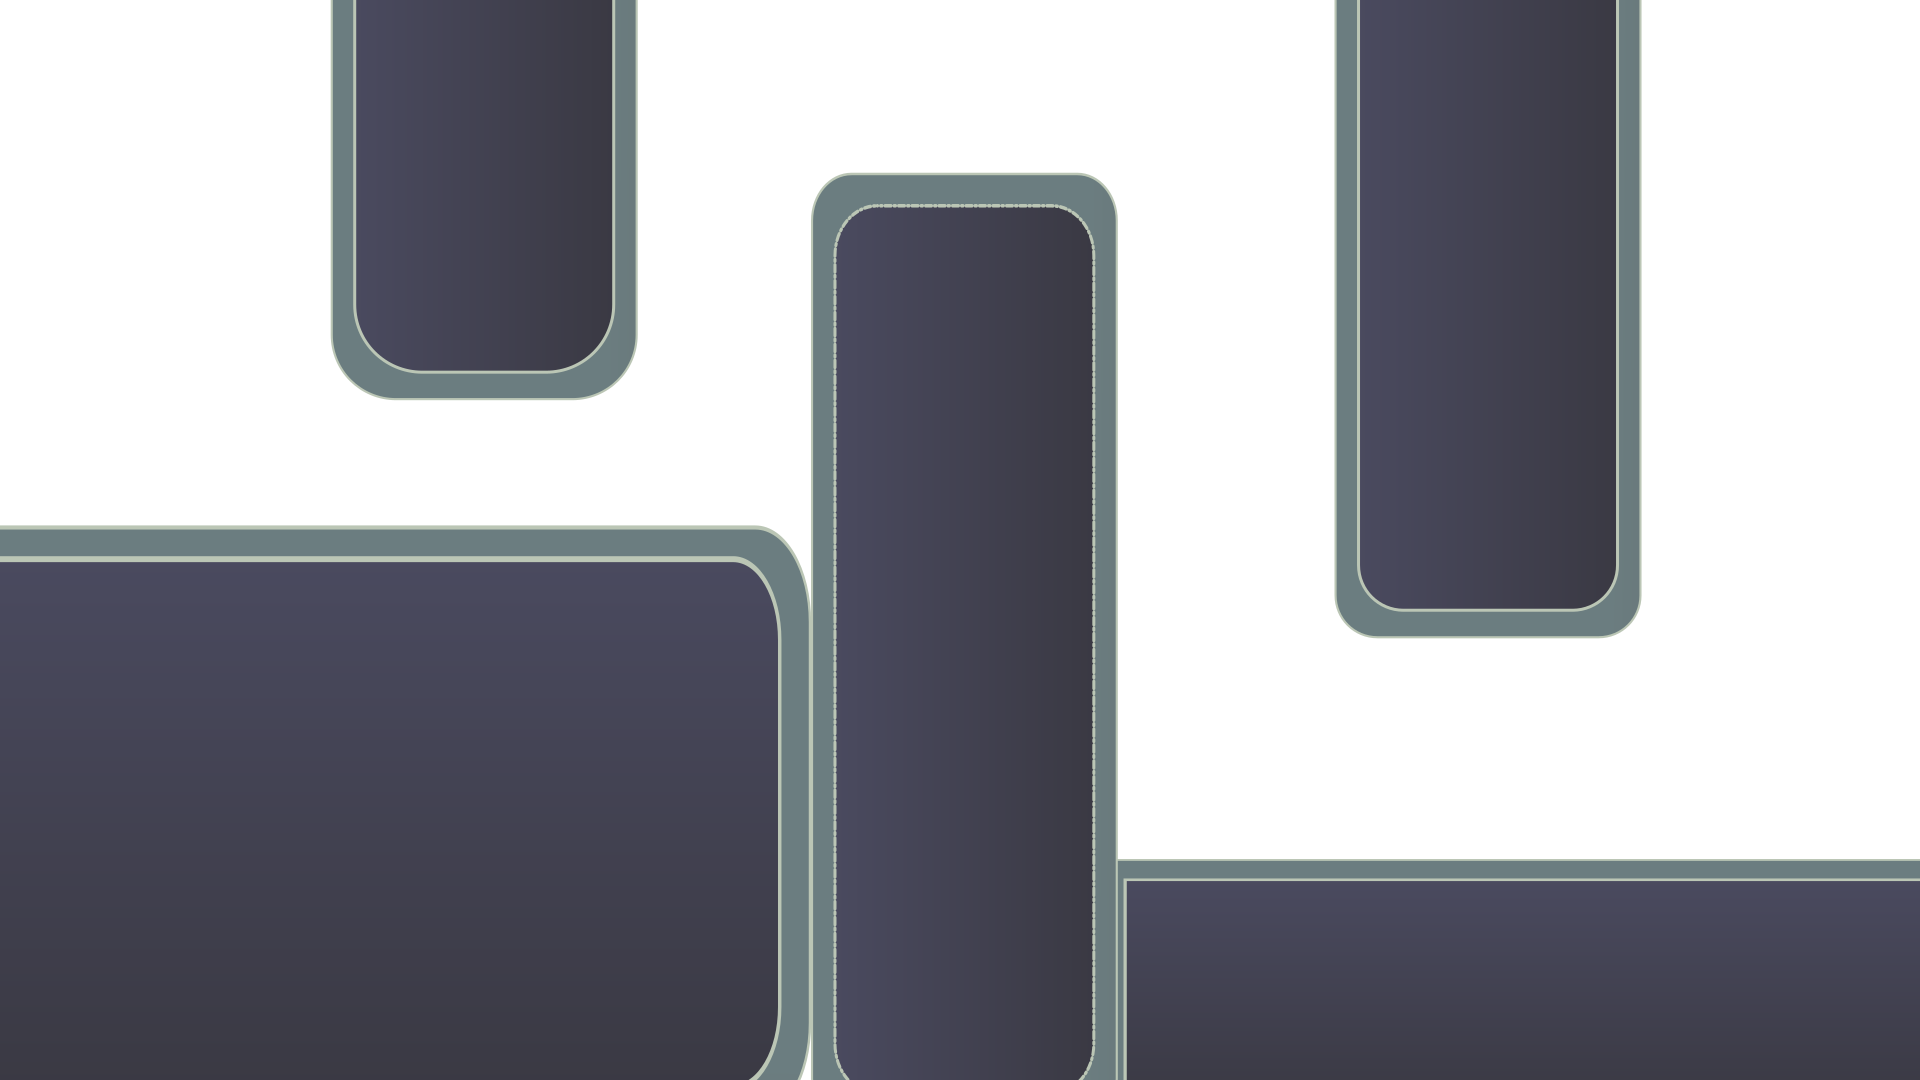
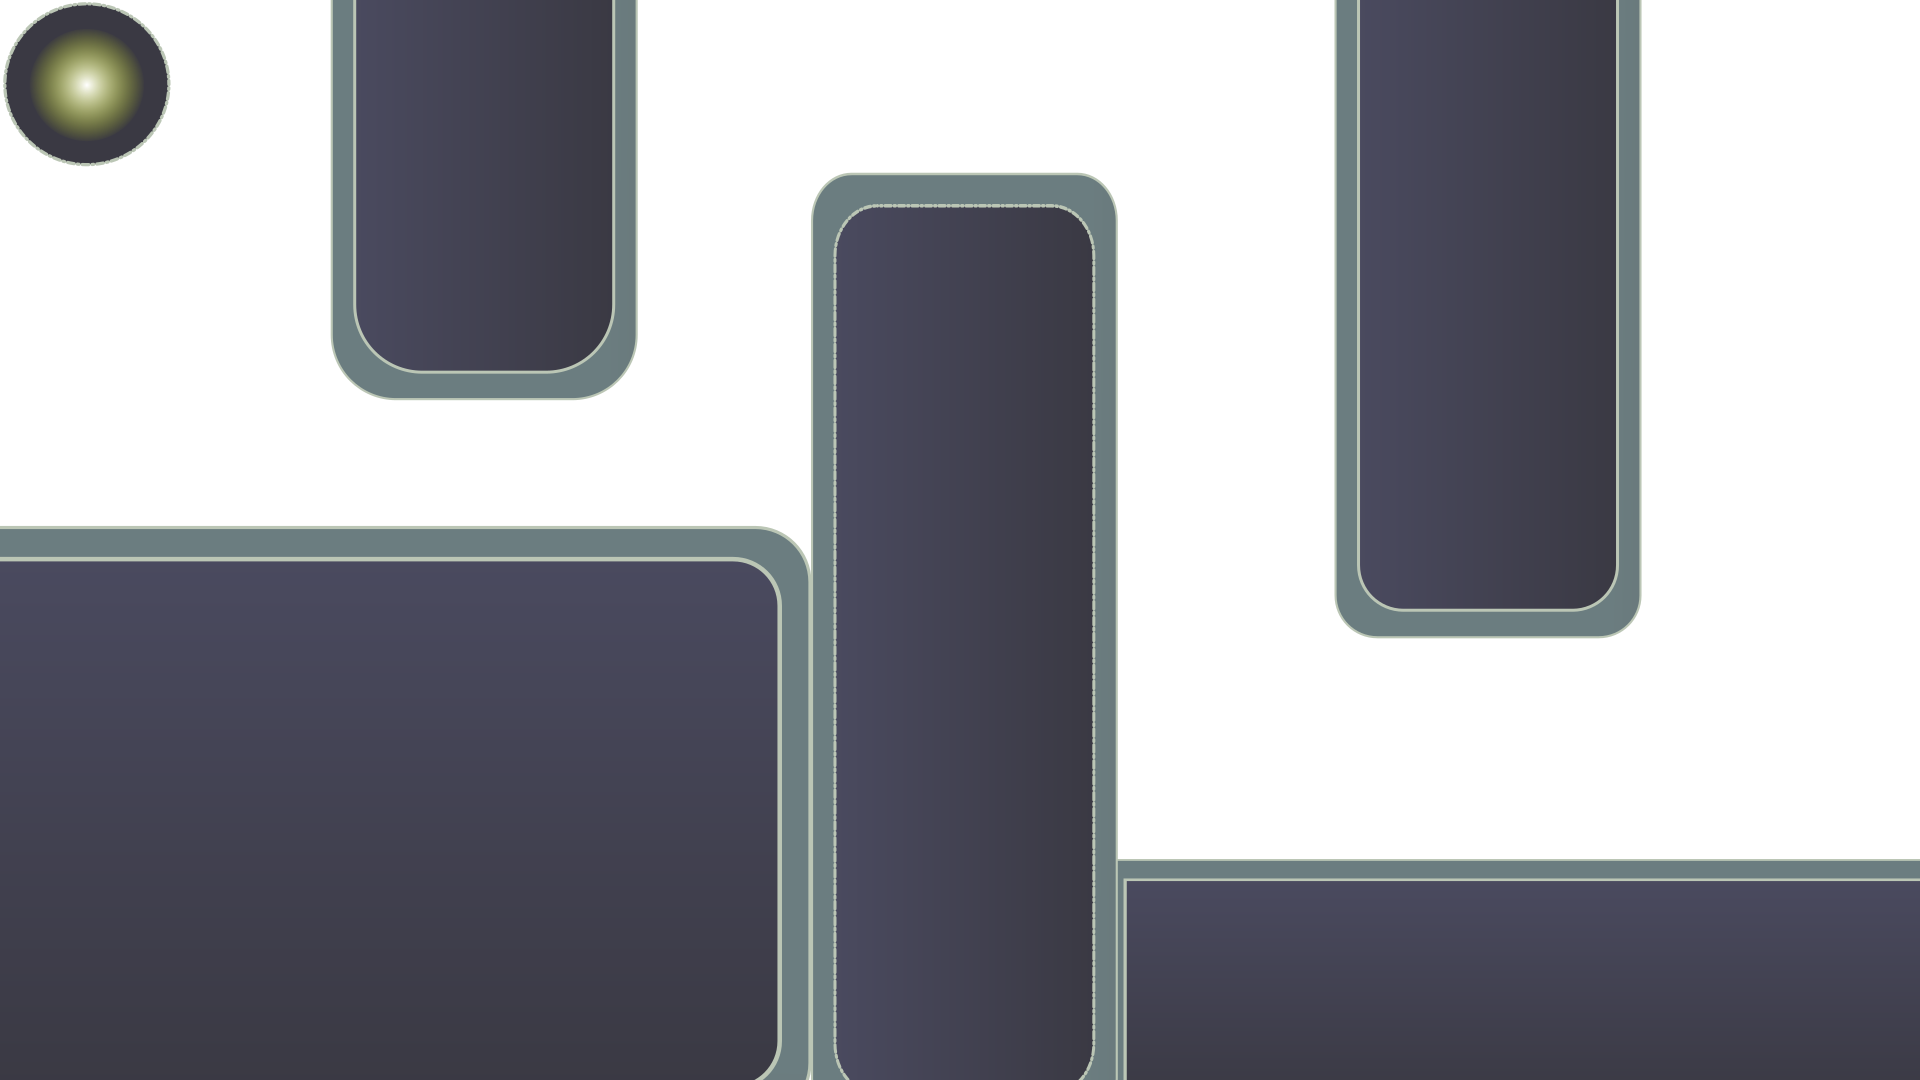
Add support for showing/hiding path points. Blow up enemy when it reaches the last point. Cleanups.

Changed region(s): [[0.0, 0.0, 0.0938, 0.1528], [0.375, 0.9472, 0.4375, 1.0], [0.375, 0.4889, 0.4375, 0.55]]

diff --git a/core/src/net/mazin/defense/Enemy.kt b/core/src/net/mazin/defense/Enemy.kt
@@ -1,10 +1,8 @@
 package net.mazin.defense
 
-import com.badlogic.gdx.Gdx
 import com.badlogic.gdx.graphics.Texture
 import com.badlogic.gdx.graphics.g2d.Batch
 import com.badlogic.gdx.graphics.g2d.TextureRegion
-import com.badlogic.gdx.math.Interpolation
 import com.badlogic.gdx.math.Vector2
 import com.badlogic.gdx.scenes.scene2d.Actor
 import com.badlogic.gdx.scenes.scene2d.actions.Actions.*
@@ -17,10 +15,10 @@ class Enemy(position: Vector2) : Actor() {
         this.setPosition(position.x, position.y)
         val tex = Texture("sprites.0.png")
         this.ship = TextureRegion(tex, 128, 128)
-        this.width = 128f
-        this.height = 128f
+        this.width = 64f
+        this.height = 64f
         this.setOrigin(Align.center)
-        //this.addAction(forever(rotateBy(10f, 0.1f)))
+        this.addAction(forever(rotateBy(10f, 0.1f)))
     }
 
     override fun act(delta: Float) {
@@ -31,18 +29,19 @@ class Enemy(position: Vector2) : Actor() {
     }
 
     override fun draw(batch: Batch?, parentAlpha: Float) {
-        if(batch == null) {
-            Gdx.app.log("Banana.draw", "batch is null :(")
-            return
-        } // TODO: do something better
-
-        // seems to already have a batch going. This could be a problem later?
-
-        batch.draw(this.ship, this.x, this.y, this.width / 2, this.height / 2, this.width, this.height, this.scaleX,
+        batch?.draw(this.ship, this.x, this.y, this.width / 2, this.height / 2, this.width, this.height, this.scaleX,
                 this.scaleY, this.rotation)
     }
 
+    fun goBoom() {
+        // TODO: scoring, explosion effect, etc
+        remove()
+    }
+
     fun follow(pathPoints: List<Vector2>): Actor? {
+        // todo: follow the path at a fixed rate
+        // probably by manually moving instead of using actions
+
         val me = Vector2(this.x, this.y)
         var points = pathPoints.toMutableList()
         var first = pathPoints.sortedBy { p -> me.dst(p) }.first()
@@ -55,7 +54,8 @@ class Enemy(position: Vector2) : Actor() {
             sorted.add(nextNearest)
         }
 
-        this.addAction(sequence( *sorted.map { p -> moveTo(p.x - this.originX, p.y - this.originY, 0.5f) }.toTypedArray() ))
+        this.addAction(sequence( *sorted.map { p -> moveTo(p.x - this.originX, p.y - this.originY, 1f) }.toTypedArray(),
+                run(Runnable { goBoom() })))
 
         return this;
     }

diff --git a/core/src/net/mazin/defense/GameScreen.kt b/core/src/net/mazin/defense/GameScreen.kt
@@ -2,10 +2,12 @@ package net.mazin.defense
 
 import com.badlogic.gdx.Gdx
 import com.badlogic.gdx.ScreenAdapter
-import com.badlogic.gdx.graphics.FPSLogger
 import com.badlogic.gdx.graphics.GL20
 import com.badlogic.gdx.graphics.OrthographicCamera
 import com.badlogic.gdx.math.Vector2
+import com.badlogic.gdx.scenes.scene2d.Actor
+import com.badlogic.gdx.scenes.scene2d.InputEvent
+import com.badlogic.gdx.scenes.scene2d.InputListener
 import com.badlogic.gdx.scenes.scene2d.Stage
 import com.badlogic.gdx.utils.Json
 import com.badlogic.gdx.utils.Timer
@@ -14,6 +16,7 @@ import com.badlogic.gdx.utils.viewport.FitViewport
 class GameScreen : ScreenAdapter {
     private val stage : Stage
     private val camera = OrthographicCamera()
+    private var paused = false;
 
     constructor() : super() {
         this.stage = Stage(FitViewport(1920f, 1080f, this.camera))
@@ -29,6 +32,15 @@ class GameScreen : ScreenAdapter {
             }, 0.1f, 0.1f);
         }
 
+        this.stage.addListener(object : InputListener() {
+            override fun enter(event: InputEvent?, x: Float, y: Float, pointer: Int, fromActor: Actor?) {
+                stage.keyboardFocus = event?.target
+            }
+            override fun exit(event: InputEvent?, x: Float, y: Float, pointer: Int, toActor: Actor?) {
+                stage.keyboardFocus = toActor
+            }
+        })
+
         Gdx.input.inputProcessor = stage
     }
 
@@ -39,14 +51,23 @@ class GameScreen : ScreenAdapter {
         super.dispose()
     }
 
+    override fun pause() {
+        paused = true
+        super.pause()
+    }
+
+    override fun resume() {
+        paused = false
+        super.resume()
+    }
+
     override fun resize(width: Int, height: Int) {
         this.stage.viewport.update(width, height)
     }
 
-
     override fun render(delta: Float) {
         Gdx.gl.glClear(GL20.GL_COLOR_BUFFER_BIT)
-        stage.act(delta)
+        if(!paused) stage.act(delta)
         stage.draw()
     }
 }

diff --git a/core/src/net/mazin/defense/PathPoint.kt b/core/src/net/mazin/defense/PathPoint.kt
@@ -1,5 +1,6 @@
 package net.mazin.defense
 
+import com.badlogic.gdx.Gdx
 import com.badlogic.gdx.Input
 import com.badlogic.gdx.graphics.glutils.ShapeRenderer
 import com.badlogic.gdx.math.Vector2
@@ -13,24 +14,20 @@ class PathPoint(x: Float, y: Float) : Actor() {
 
     constructor(vector2: Vector2) : this(vector2.x, vector2.y)
 
-
     init {
         this.setPosition(x, y)
         this.setSize(20f, 20f)
         this.setOrigin(Align.center)
-        this.debug = false;
         this.addListener(object : DragListener() {
             override fun drag(event: InputEvent?, x: Float, y: Float, pointer: Int) {
+                Gdx.app.log("PathPoint", "drag")
                 if(event == null) { return }
                 addAction(moveTo(event.stageX - originX, event.stageY - originX))
             }
-            override fun enter(event: InputEvent?, x: Float, y: Float, pointer: Int, fromActor: Actor?) {
-                stage?.keyboardFocus = this@PathPoint
-            }
-            override fun exit(event: InputEvent?, x: Float, y: Float, pointer: Int, toActor: Actor?) {
-                stage?.keyboardFocus = null
-            }
+
             override fun keyDown(event: InputEvent?, keycode: Int): Boolean {
+                Gdx.app.log("PathPoint", "keyDown")
+
                 if(keycode == Input.Keys.DEL || keycode == Input.Keys.FORWARD_DEL) {
                     remove()
                     return true
@@ -39,9 +36,5 @@ class PathPoint(x: Float, y: Float) : Actor() {
                 return false
             }
         })
-    }
-
-    override fun drawDebug(shapes: ShapeRenderer?) {
-        shapes?.circle(this.originX + this.x, this.originY + this.y, this.width * .70f)
     }
 }

diff --git a/core/src/net/mazin/defense/Background.kt b/core/src/net/mazin/defense/Background.kt
@@ -1,6 +1,7 @@
 package net.mazin.defense
 
 import com.badlogic.gdx.Gdx
+import com.badlogic.gdx.Input
 import com.badlogic.gdx.graphics.Texture
 import com.badlogic.gdx.graphics.g2d.Batch
 import com.badlogic.gdx.scenes.scene2d.Actor
@@ -15,8 +16,21 @@ class Background : Actor() {
         this.setSize(1920f, 1080f)
         this.addListener(object: InputListener() {
             override fun touchDown(event: InputEvent?, x: Float, y: Float, pointer: Int, button: Int): Boolean {
-                Gdx.app.log("Background", "Hi from touchDown")
-                stage.addActor(PathPoint(x, y))
+                Gdx.app.log("Background", "touchDown")
+                if(debug) {
+                    Gdx.app.log("Background", "Added path point.")
+                    stage.addActor(PathPoint(x, y))
+                }
+                return false
+            }
+
+            override fun keyDown(event: InputEvent?, keycode: Int): Boolean {
+                Gdx.app.log("Background", "keyDown")
+                if(keycode == Input.Keys.D) {
+                    debug = !debug
+                    stage.actors.filter { it is PathPoint }.forEach { it.debug = debug }
+                    return true
+                }
                 return false
             }
         })
@@ -25,5 +39,4 @@ class Background : Actor() {
     override fun draw(batch: Batch?, parentAlpha: Float) {
         batch?.draw(background, 0f, 0f)
     }
-
 }
